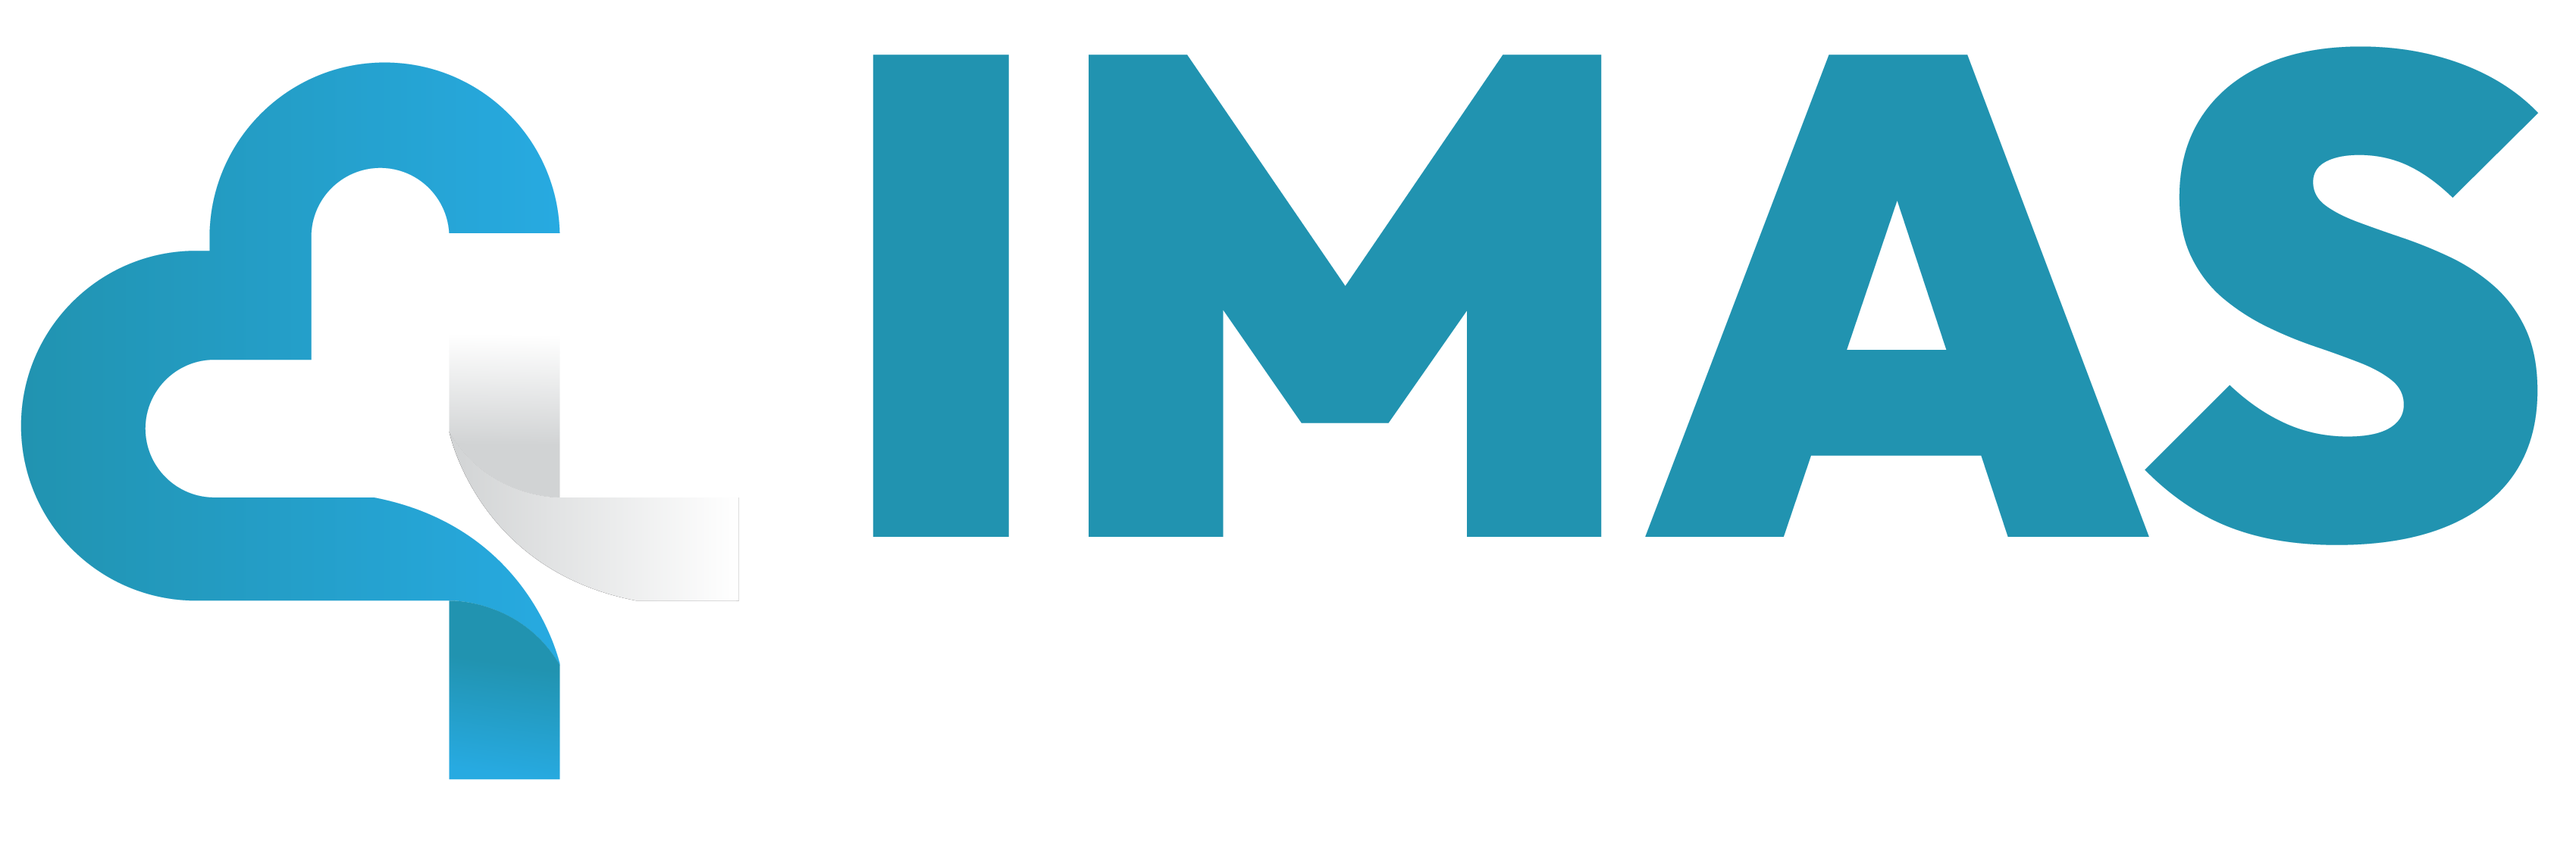
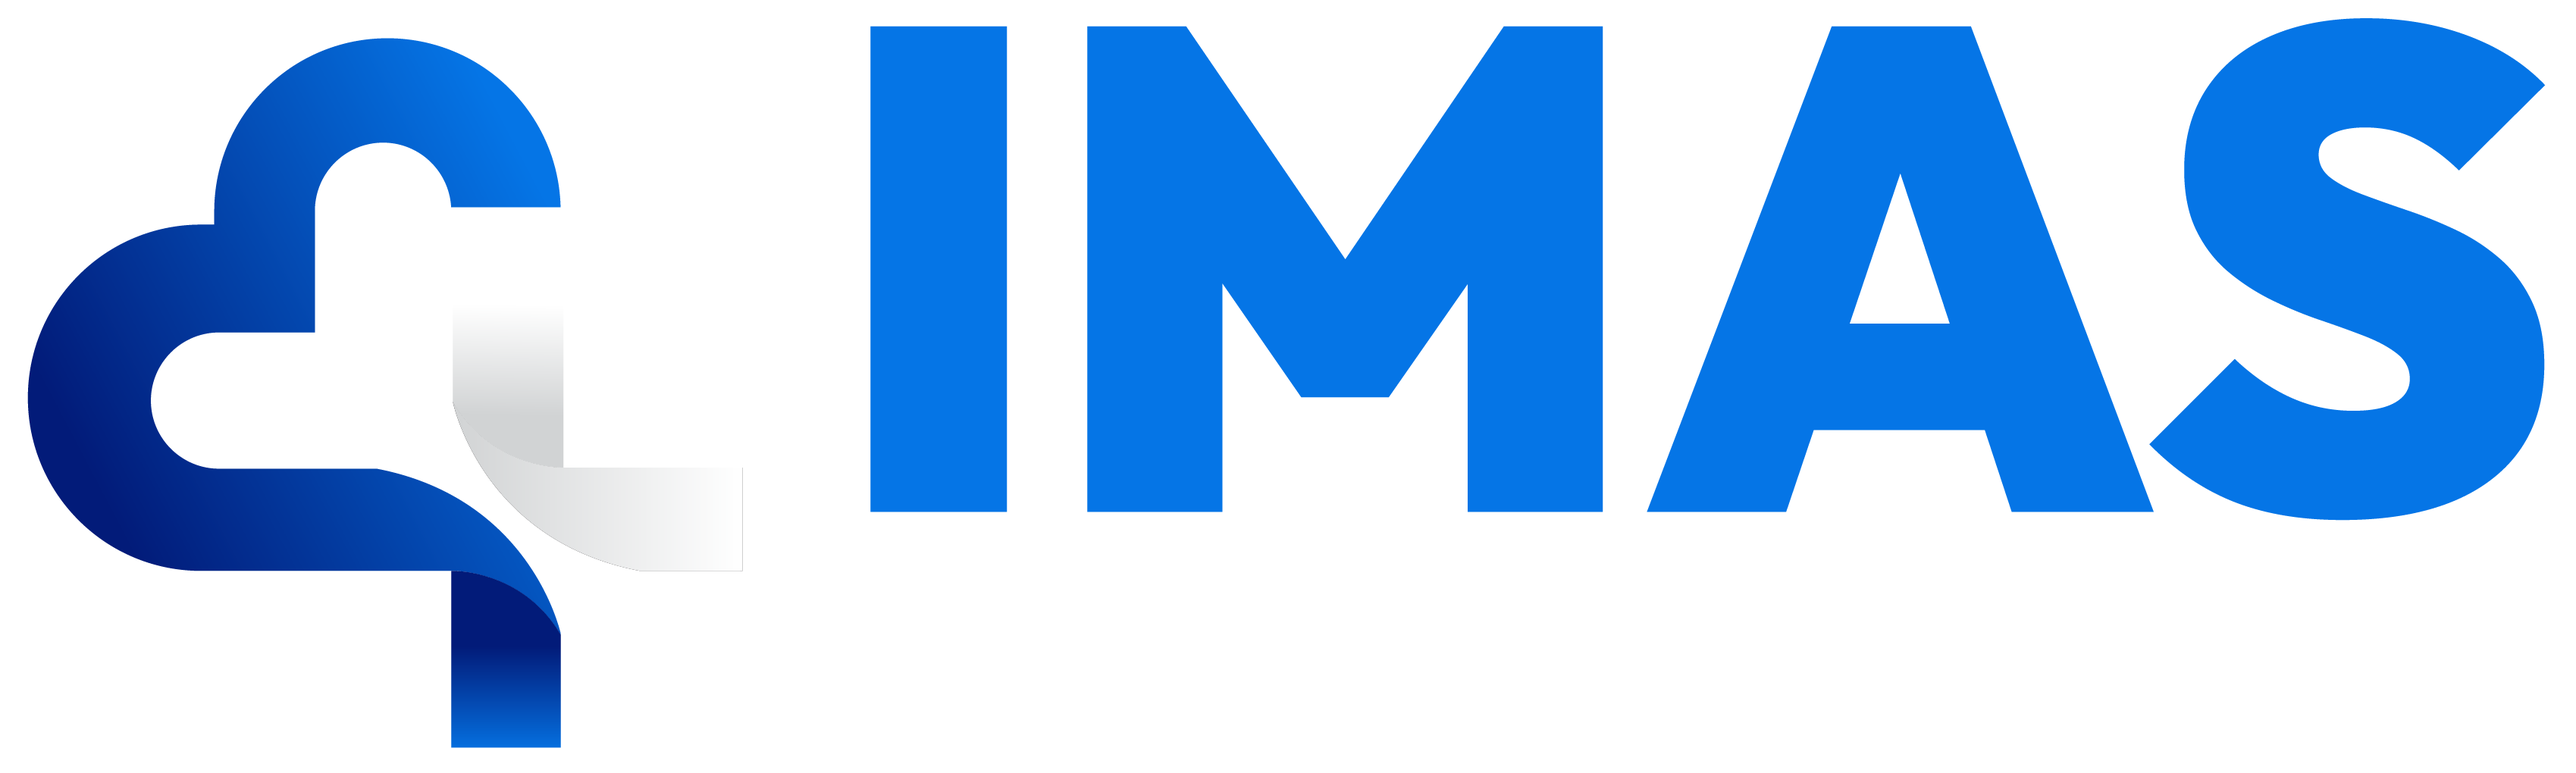
theme changed

diff --git a/public/assets/css/style.css b/public/assets/css/style.css
@@ -1,6 +1,6 @@
 :root {
-    --primary: #2193b0;
-    --secondary: #373536;
+    --primary: #0575e6;
+    --secondary: #000000;
     --bg-light: #2a3e812b;
     --bg-gray: #f4f9ff;
     --black: #000000;

diff --git a/resources/views/index.blade.php b/resources/views/index.blade.php
@@ -21,7 +21,7 @@
             </div>
             <div class="col-lg-5">
                 <div class="img_sec wow fadeInRight" data-wow-duration="4s">
-                    <img src="{{ asset('assets/images/home/hero.png') }}" alt="">
+                    <img src="{{ asset('assets/images/home/Website_1.png') }}" alt="">
                 </div>
             </div>
         </div>
